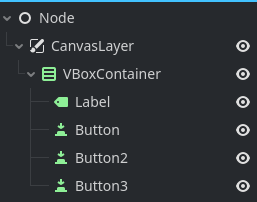
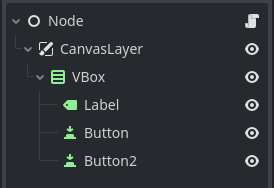
wip: running into problem with autoadding states...

diff --git a/content/blog/exploring-chickensoft-1/index.md b/content/blog/exploring-chickensoft-1/index.md
@@ -20,13 +20,15 @@ quick_navigation_buttons = true
 
 If you're a Godot C# developer, you might have stumbled over the Chickensoft tools. The folks over at the organization has done a wonderful job showcasing the architecture and packages in their [GameDemo](https://github.com/chickensoft-games/GameDemo).
 
-**However, taking it all in at once can be quite daunting.**
+In short, the tools and guidelines provided by Chickensoft should provide you with a clean, extendible and testable architecture for your games.
+
+**However, taking it all in at once is quite daunting.**
 
 In this post, I hope to introduce the Chickensoft concepts, progressively adding them to a Chickensoft game template project as we run into good use cases.
 
-> 🙋🏼 I'm not providing any golden paths or silver bullets here. I will be using the Chickensoft packages **as I understand them**, essentially recreating my personal journey learning these tools!
+> 🙋🏼 I'm not providing any golden paths or silver bullets here. I will be using the Chickensoft packages **as I understand them**, essentially recreating my personal journey learning these tools and patterns!
 
-We'll start things off really simple - let's cook some chicken! 🐔
+We'll start things off really simple - let's get cookin'! 🐔
 
 # Scope
 
@@ -37,6 +39,10 @@ At the end of this post, we will have finished the following steps:
 * Prepare a scene structure for our game - starting with the `App` node
 
 We'll make stops along the way and rationalize not only how we perform these steps, but *why* we do it.
+
+We won't be explaining or describing every technical detail of the Chickensoft packages.
+
+The goal is to build a solid game architecture that we can easily expand on using Chickensoft tools.
 
 # Installing GodotEnv and Godot
 
@@ -101,7 +107,7 @@ When running the game with F5, we are presented with a scene containing a test b
 
 Taking a closer look, we see this is actually the `Game.tscn` scene, not `Main.tscn` - the latter being completely empty.
 
-Reading the comments in the `Main.cs`, we realize that the main scene is used to conditionally run tests. Let's skip the specifics for now, as we won't dive into the testing capabilities of Chickensoft at this point.
+Reading the comments in `Main.cs`, we realize that the main scene is used to conditionally run tests. Let's skip the specifics for now, as we won't dive into the testing capabilities of Chickensoft at this point.
 
 > 🙋🏼 I'm not fully sold on TDD. I'm sorry, Joanna...
 
@@ -186,15 +192,15 @@ This will be simple stuff, such as "starting the game" or "closing the applicati
 
 I'll create an App scene and script and place them in the `src/app` folder. Let's also organize our `Game` source files into their own folder.
 
-![alt text](img/project_structure_1.png)
+![The project hierarchy, a source folder containing an app folder and a game folder, with scripts and scenes organized accordingly.](img/project_structure_1.png)
 
 In the App, let's throw in an idea for a node hierarchy. This is a rough sketch of what I like to do:
 
-![A scene hierarchy, the scene root being the a Node, containing a CanvasLayer which in turn contains a VBox. The VBox has 4 children; a label and 3 buttons.](./img/node_hierarchy1.png)
+![A scene hierarchy, the scene root being the a Node, containing a CanvasLayer which in turn contains a VBox. The VBox has 4 children; a label and 2 buttons.](./img/node_hierarchy1.png)
 
 Next, I give them descriptive names and center the VBox in the CanvasLayer.
 
-![Renamed nodes in scene hierarchy, a centered main menu in the editor viewport containing the title "Eggsploration", and the buttons New Game, Load Game and Quit.](./img/node_hierarchy2.png)
+![Renamed nodes in scene hierarchy, a centered main menu in the editor viewport containing the title "Eggsploration", and the buttons New Game and Quit.](./img/node_hierarchy2.png)
 
 Let's pop into `Main.cs` real quick and have `Main.RunScene` change the scene to our app:
 
@@ -213,7 +219,7 @@ Before we do that, let's introduce the first potentially daunting part of Chicke
 
 I will start of by shouting from the rooftops ***that [LogicBlocks](https://github.com/chickensoft-games/LogicBlocks) is a really cool package!***
 
-> 🙋🏼 They're all I dreamed of accomplishing with my FSM series. I might consider myself defeated - but frankly it's more so being ✨ blessed ✨.
+> 🙋🏼 They're all I dreamed of accomplishing with my FSM series. I could consider myself defeated - but frankly it's more so being ✨ blessed ✨.
 
 With LogicBlocks, we can create complex logic for our game nodes by separating it into different states. Part of the value proposition is that we won't create a tangled mess while doing so.
 
@@ -249,31 +255,174 @@ public partial class App : Node { }
 
 Our naked App script looks like this. I'll introduce the LogicBlocks boilerplate piece by piece and explain it as I go.
 
-Each node that uses LogicBlocks will keep track of its machine (Logic), and its state binding (Binding). The `Logic` reference is mainly used to send inputs into the machine and the `Binding` reference is primarily used to listen to outputs produced by the machine.
-
-The machine itself will contain our game logic in various states, taking in input and producing output based on rules we decide.
+Let's add the boilerplate and have a look.
 
 ```cs
-public partial class App : Node
-{
+namespace Eggsploration;
+
+using Chickensoft.Introspection;
+using Chickensoft.LogicBlocks;
+using Godot;
+
+public partial class App : Node {
   #region State
-  AppLogic Logic { get; set; } = default!;
-  AppLogic.IBinding Binding { get; set; } = default!;
+  private AppLogic Logic { get; set; } = default!;
+  private AppLogic.IBinding Binding { get; set; } = default!;
   #endregion
 
 
-  public override void _Ready()
-  {
+  public override void _Ready() {
     Logic = new AppLogic();
+    Binding = Logic.Bind();
   }
 }
 
 [Meta]
 [LogicBlock(typeof(AppLogic), Diagram = true)]
-public partial class AppLogic : LogicBlock<AppLogic.State>
-{
-  public override Transition GetInitialState() => To<State>();
+public partial class AppLogic : LogicBlock<AppLogic.State> {
+  public override Transition GetInitialState() => To<State.InMainMenu>();
 
-  public partial record State : StateLogic<State> { }
+  public partial static class Input { }
+  public partial static class Output { }
+
+  public abstract partial record State : StateLogic<State> {
+    public partial record InMainMenu : State { }
+    public partial record InGame : State { }
+    public partial record ClosingApplication : State { }
+  }
+}
+
+```
+
+A definition lightning round might go:
+
+* `Logic`:  This is a reference to the LogicBlocks state machine. This is mainly used to send inputs into the machine.
+* `Binding`: This is a reference to the state binding. It is primarily used to listen to outputs produced by the machine.
+* `[Meta]`: Blinders on for this one! To quote the creators of Chickensoft:
+    > You don't need to fully understand this package to make the most of it. In fact, you may never need to use it directly since you are more likely to encounter it as a dependency of one of the other Chickensoft tools.
+* `[LogicBlock(typeof(AppLogic), Diagram = true)]`: This attribute extends the class, enabling LogicBlocks generators to generate serialization utilities for the our machine. Setting `Diagram = true` includes the class in the diagram generation.
+* `AppLogic`: The LogicBlocks machine that will contain our game logic in various states, taking in input and producing output based on rules we decide.
+  * `Input`: A class containing record structs that are used to send pieces of data as input into the machine.
+  * `Output`: A class containing record structs that are used to produce outputs from the machine, later to be consumed and reacted to in the `App` node via the `Binding`.
+  * `State`: An abstract state class for all our App LogicBlock states.
+    * `InMainMenu`: The state for when the app is in the main menu.
+    * `InGame`: The state for when the app is running the game.
+
+> 🙋🏼 Later on when using AutoInject, we have access to a separate set of lifecycle methods that we should prefer!
+>
+> For now, I will be using the standard Node lifecycle - by overriding `Ready`.
+
+Let us add some inputs; `NewGameClick` and `QuitClick`.
+
+```cs
+public static partial class Input { 
+  public partial record struct NewGameClick;
+  public partial record struct QuitClick;
+}
+```
+
+The happenings we want to react to are: `StartNewGame` and `QuitApp`. Let's add them to the output!
+
+```cs
+public static partial class Output {
+  public partial record struct StartNewGame;
+  public partial record struct QuitApp;
+}
+```
+
+Next, let's actually send some input into the machine. We'll connect the `Button.Pressed` signals to handlers through code. Let's leverage Godot unique names to get a hold of the references!
+
+```cs
+public partial class App : Node {
+  #region State
+  private AppLogic Logic { get; set; } = default!;
+  private AppLogic.IBinding Binding { get; set; } = default!;
+  #endregion
+
+  #region Nodes
+  private Button _newGameButton = default!;
+  private Button _quitButton = default!;
+  #endregion
+
+  public override void _Ready() {
+    Logic = new AppLogic();
+    Binding = Logic.Bind();
+
+    _newGameButton = GetNode<Button>("%NewGameButton");
+    _quitButton = GetNode<Button>("%QuitButton");
+
+    _newGameButton.Pressed += OnNewGameButtonPressed;
+    _quitButton.Pressed += OnQuitButtonPressed;
+  }
+
+  private void OnNewGameButtonPressed() =>
+    Logic.Input(new AppLogic.Input.NewGameClick());
+
+  private void OnQuitButtonPressed() =>
+    Logic.Input(new AppLogic.Input.QuitClick());
+}
+
+// ... Rest of script omitted!
+```
+
+At this point our App script actually sends input into the AppLogic machine! However, we haven't told our states to listen to any inputs yet.
+
+Let's fix that by adding the `IGet<T>` interface!
+
+```cs
+// Beginning of script omitted!
+public abstract partial record State : StateLogic<State> {
+  public partial record InMainMenu 
+    : State,
+      IGet<Input.NewGameClick>, 
+      IGet<Input.QuitClick> {
+    public Transition On(in Input.NewGameClick input) => 
+      To<InGame>();
+
+    public Transition On(in Input.QuitClick input) =>
+      To<ClosingApplication>();
+  }
+
+  public partial record InGame : State { }
+  
+  public partial record ClosingApplication : State { }
+}
+```
+
+The code should now be hopping over to the other states; `InGame` and `ClosingApplication`. However, we're not producing any outputs in the states. 
+
+Let's fix that also - by adding the state constructor and specifying what happens `OnEnter`. Tiny boilerplate incoming!
+
+```cs
+public partial record InGame : State {
+  public InGame() {
+    this.OnEnter(() => Output(new Output.StartNewGame()));
+  }
+}
+
+public partial record ClosingApplication : State {
+  public ClosingApplication() {
+    this.OnEnter(() => Output(new Output.QuitApp()));
+  }
+}
+```
+
+The final step now, is to actually **react** to the output from the machine via the `Binding`. We'll hop over to our `Ready` function and set up those reactions!
+
+```cs
+public override void _Ready() {
+  Logic = new AppLogic();
+  Binding = Logic.Bind();
+
+  _newGameButton = GetNode<Button>("%NewGameButton");
+  _quitButton = GetNode<Button>("%QuitButton");
+
+  _newGameButton.Pressed += OnNewGameButtonPressed;
+  _quitButton.Pressed += OnQuitButtonPressed;
+
+  // NEW BOILERPLATE UNLOCKED
+  Binding
+    .Handle((in AppLogic.Output.StartNewGame output) => GD.Print("TODO start game"))
+    .Handle((in AppLogic.Output.QuitApp output) => GetTree().Quit());
 }
 ```
